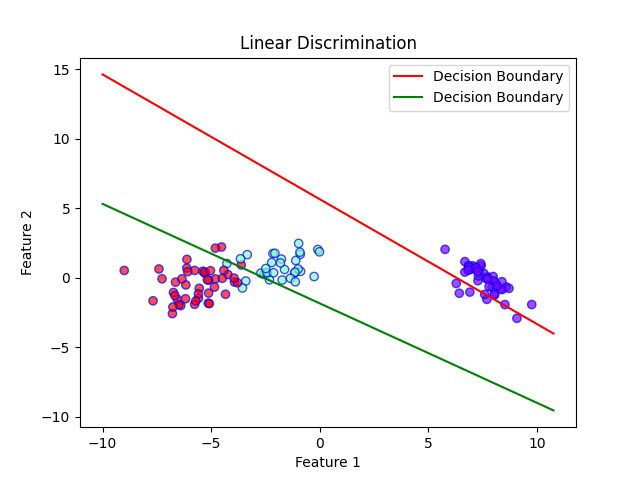
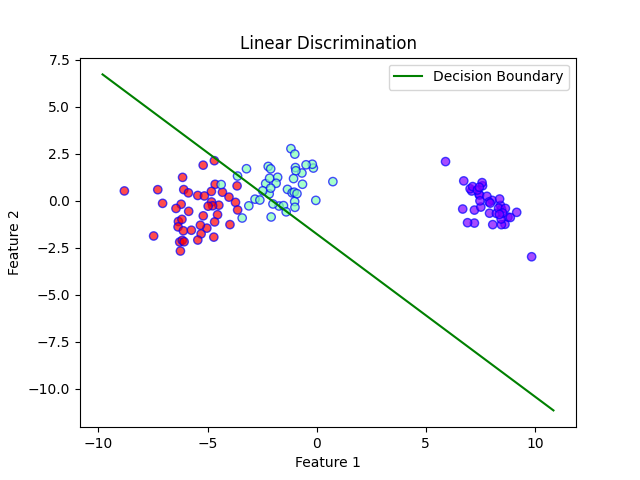
save

diff --git a/num-examples/linear-discrimination.py b/num-examples/linear-discrimination.py
@@ -63,7 +63,7 @@ b2 = lda.intercept_[1]
 x_range = np.linspace(X_train[:, 0].min() - 1, X_train[:, 0].max() + 1, 100)
 y_line1 = (-w1[0]/w1[1]) * x_range - b1/w1[1]
 y_line2 = (-w2[0]/w2[1]) * x_range - b2/w2[1]
-plt.plot(x_range, y_line1, color='red', label='Decision Boundary')
+# plt.plot(x_range, y_line1, color='red', label='Decision Boundary')
 plt.plot(x_range, y_line2, color='green', label='Decision Boundary')
 plt.xlabel("Feature 1")
 plt.ylabel("Feature 2")
